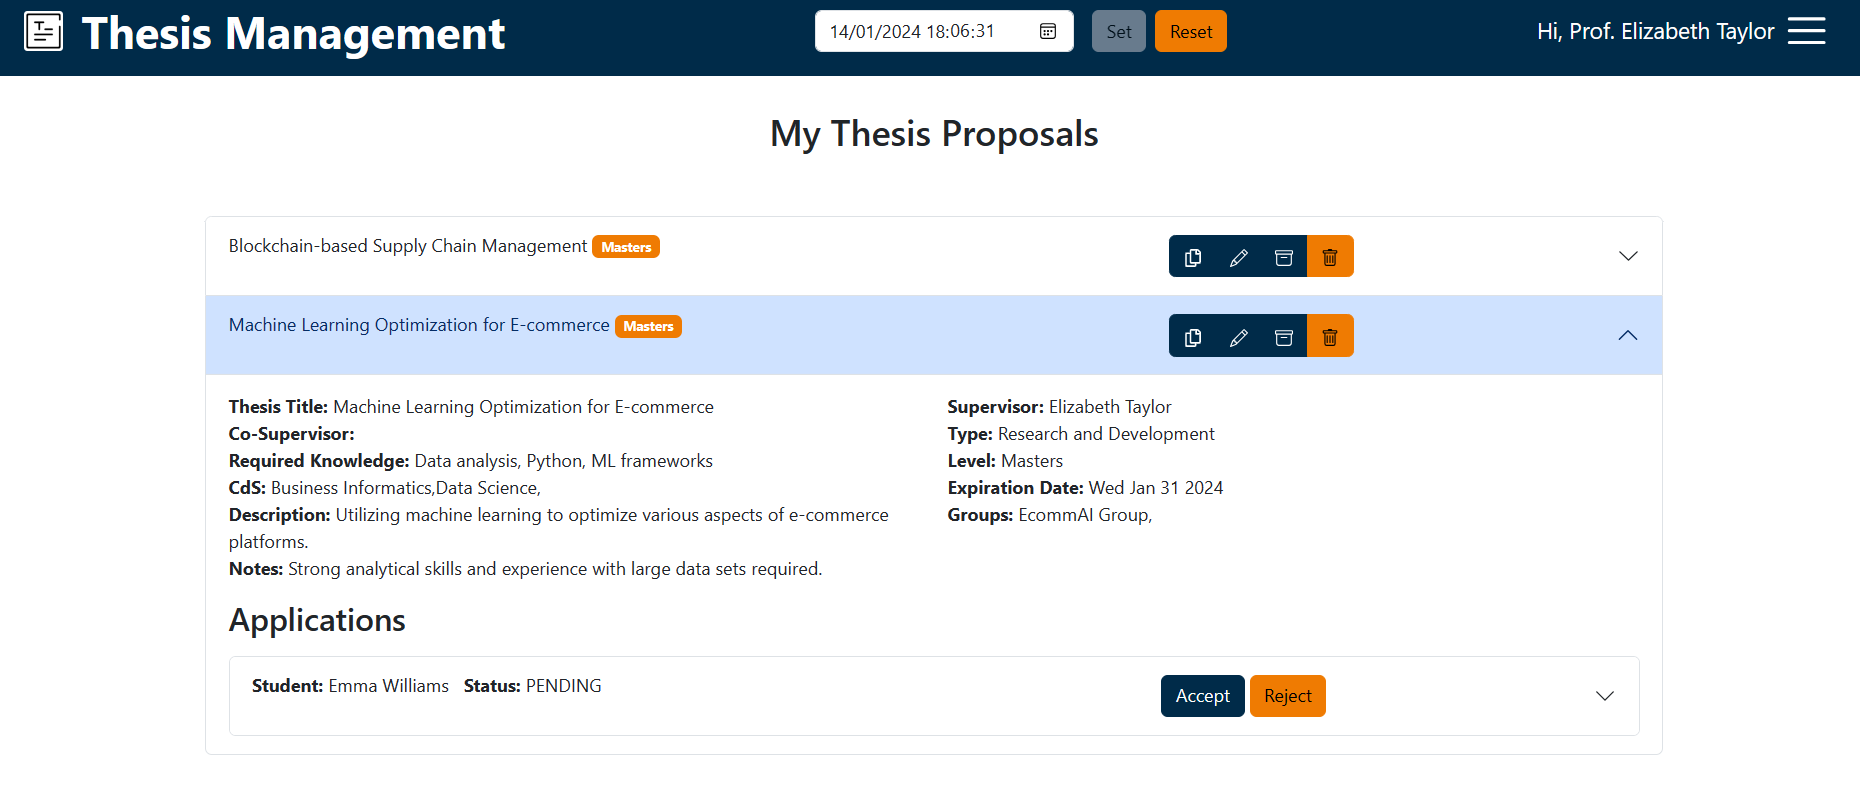
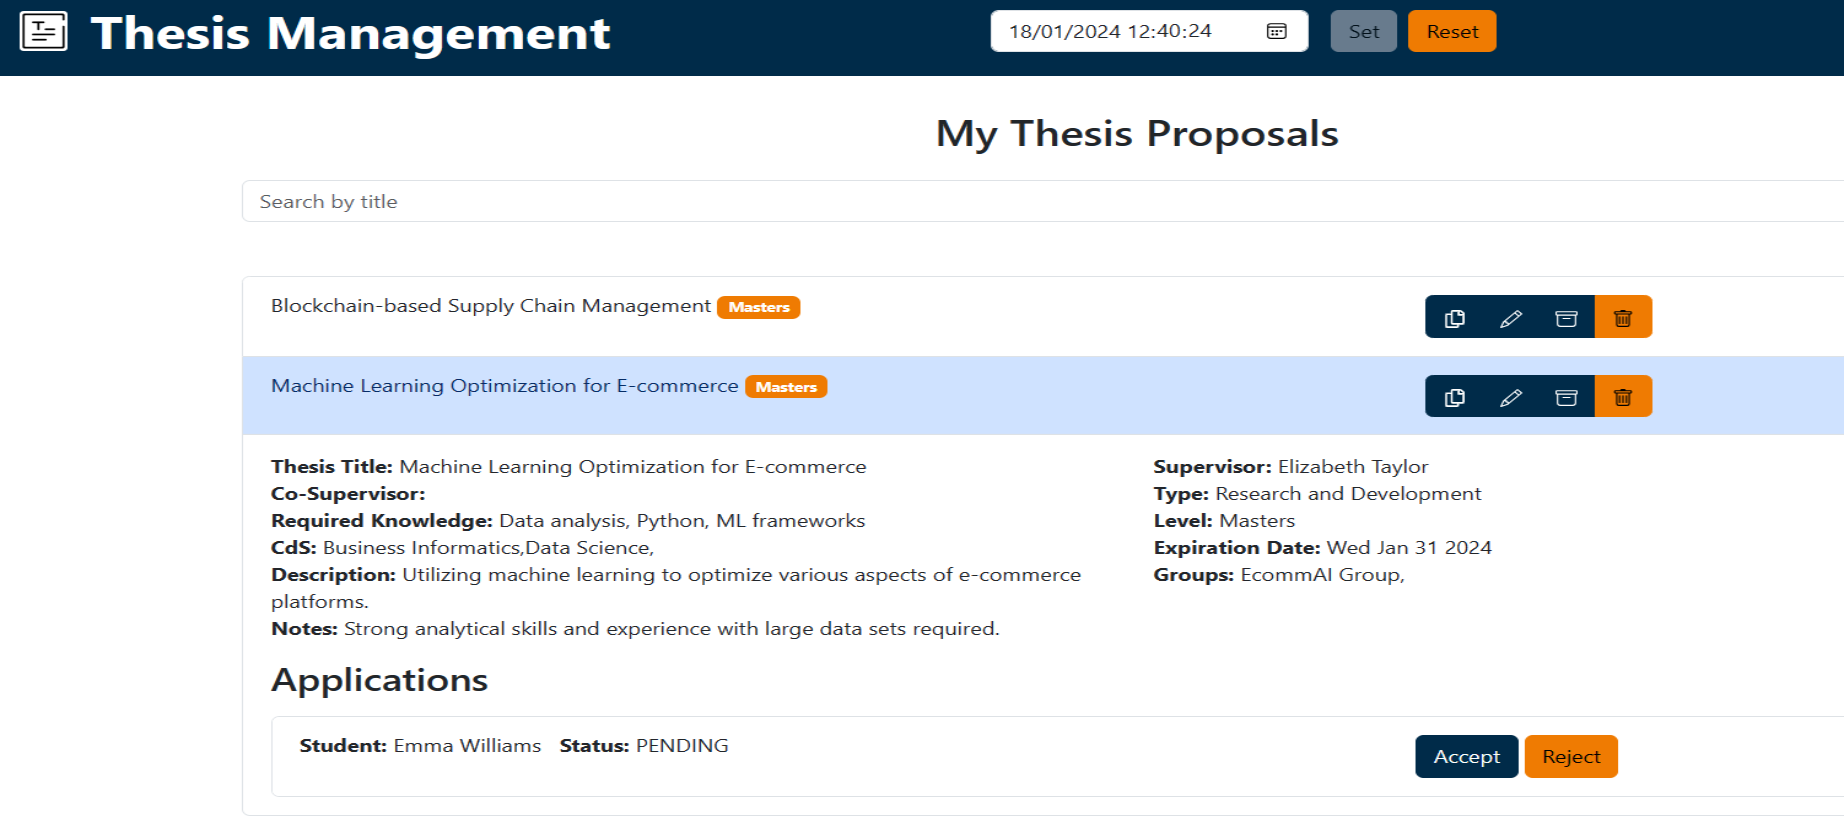
finished userGuide

diff --git a/UserGuide.md b/UserGuide.md
@@ -8,7 +8,7 @@
 1. [Introduction](#introduction)
 2. [Log In](#login)
 3. [Virtual Clock](#VC)
-4. [Are you a student?](#student)
+4. [Are You A Student?](#student)
 
    4.1 [Proposal List](#search)
    
@@ -21,7 +21,7 @@
    4.5 [My Thesis Request](#mythesisrequest)
 
    4.6  [Forum](#forumstud)
-5. [Are you a professor?](#professor)
+5. [Are You A Professor?](#professor)
 
    5.1 [Add a new proposal](#add)
 
@@ -36,7 +36,7 @@
    5.6 [Archived Requests](#archivedrequests)
 
    5.7 [Forum](#forumprof)
-6. [Are you a secretary?](#secretary)
+6. [Are You A Secretary?](#secretary)
 
    6.1 [Requested Proposals](#requestedproposals)
 
@@ -86,7 +86,7 @@ pages will change their data depending on the Virtual Clock value.
 
 <img src="guideImages/VirtualClock.png" alt="drawing" width="500"/>
 
-## 4 Are you a student? <a name="student"/>
+## 4 Are You A Student? <a name="student"/>
 
 From the main page you can choose between some options each with its own button which will redirect you to the
 appropriate page:
@@ -107,7 +107,7 @@ This page presents on the **list of available proposals** and the **filters boar
 
 Clicking the **rounded arrow** the list will be updated, maybe the proposal you are searching for has been just added. 
 
-From the filters board you can search a specific proposal typing some keywords or selecting some filters (you can select
+From the filters board you can search a specific proposal typing some keywords or applying some filters (you can select
 more than one options for each field).
 
 You can scroll down the list searching for an interesting proposal. Clicking on a proposal you will open a collapsable
@@ -116,7 +116,7 @@ expiration date and a button that will open a modal containing all the proposal 
 go to the **application page** using the **"Apply"** button.
 
 The button to show the proposal details is disabled in case you already have an 
-"<span style="color:green">ACCEPTED</span>" or a "<span style="color:yellow">PENDING</span>" application.
+<span style="color:green">ACCEPTED</span> or a <span style="color:yellow">PENDING</span> application.
 
 <img src="guideImages/propsList.png" alt="drawing" width="500"/>
 
@@ -124,7 +124,8 @@ The button to show the proposal details is disabled in case you already have an
 
 The application page shows information about you and your university career. The page offers you the possibility to
 attach a **PDF document** (your CV for example).
-You can send your application with the "Apply" button at the end of the page, then you'll get a message based on the
+
+Click the **"Apply"** button at the end of the page to send your application, then you'll get a message based on the
 application outcome.
 
 <img src="guideImages/apply.png" alt="drawing" width="500"/>
@@ -144,30 +145,48 @@ it has been archived by the professor so your application has been indirectly re
 ### 4.4 New Thesis Request <a name="newthesisrequest"/>
 
 If you want to make a **new thesis request** this is the right place. This page offer you the possibility to create a
-thesis request compiling a short form with some mandatory fields, the title and supervisor. Once you have compiled the
-form click the submit button to send the request. If you miss one of the mandatory fields you will be warned by some
+thesis request compiling a short form with some mandatory fields, the title and the supervisor. Once the form has been
+compiled click the submit button to send the request. If you miss one of the mandatory fields you will be warned by some
 alert.
+
+Please note: you can have only one thesis request at a time. If you already have a pending or accepted thesis request
+and try to create a new one you'll get an error message.
 
 <img src="guideImages/newThesisRequest.png" alt="drawing" width="500"/>
 
 ### 4.5 My Thesis Request <a name="mythesisrequest"/>
 
-This page shows your thesis request (if you have one) and gives oyu the possibility to edit it clicking the button:
-**"enable edit mode"**, by this way you can modify the request's data or delete the request. Remember to submit the
-changes clicking the button **"Modify request"**.
+This page shows your thesis request (if you have one) and gives you the possibility to edit it clicking the button
+**"enable edit mode"**, by this way you can modify the request data or delete the request (maybe in order ro create a
+new one).
+
+Remember to submit the changes clicking the button **"Modify request"**.
 
 <img src="guideImages/myThesisRequest.png" alt="drawing" width="500"/>
 
 ### 4.6 Forum <a name="forumstud"/>
 
-## 5 Are you a professor? <a name="professor"/>
+Once your thesis request has been approved by the secretary and the supervisor, the supervisor have the possibility to
+create a new topic about the thesis request.
+
+Well, from this page you can interact with the request's supervisor and co-supervisors and open a discussion sending a
+message on the **"Forum topic"** page.
+
+<img src="guideImages/forumStud.png" alt="drawing" width="500"/>
+<img src="guideImages/forumTopic.png" alt="drawing" width="500"/>
+
+## 5 Are You A Professor? <a name="professor"/>
 
 From the main page you can choose between three options each with its own button which will redirect you to the
 appropriate page:
 
-- Add a new thesis proposal
-- My thesis proposals
+- Add A New Thesis Proposal
+- My Proposals
+- Co-supervised Proposals
 - Archive
+- Pending Requests
+- Archived Requests
+- Forum
 
 In every moment you can change page or logout browsing the **menu** in the top right part of the pages.
 
@@ -175,15 +194,19 @@ In every moment you can change page or logout browsing the **menu** in the top r
 
 ### 5.1 Add A New Thesis Proposal <a name="add"/>
 
-This page contains the form to add a **new proposal**. You can add your new thesis proposal filling the form and
-submitting it. Pay attention, before you submit the form make sure that the **mandatory fields** (marked with an "*")
-are filled otherwise an error alert will arise and the submission won't be accepted. The other fields are all optional.
+This page contains the form to add a **new proposal**.
+
+You can add your new thesis proposal filling the form and submitting it.
+
+Pay attention, before you submit the form make sure that the **mandatory fields** (marked with an "*") are filled
+otherwise an error alert will arise and the submission won't be accepted. The other fields are all optional.
+
 Note that for some fields like Co-supervisors (internal and external), Research Groups, Keywords, and CdS you can add
 **more than one element**.
 
 <img src="guideImages/addForm.png" alt="drawing" width="500"/>
 
-### 5.2 My Thesis Proposals <a name="props"/>
+### 5.2 My Proposals <a name="props"/>
 
 This page displays your thesis proposals and the respective application. From this page you are able to operate on your
 personal proposals, in particular you can:
@@ -196,6 +219,8 @@ Clicking the proposals you'll see its applications with the information about th
 download the attached file. You can **accept** one of the applications, this action will consequently make other
 applications cancelled.
 
+Use the search bar above the proposals list to find immediately what you are searching for.
+
 <img src="guideImages/professorProposal.png" alt="drawing" width="500"/>
 
 ### 5.3 Co-supervised Proposals <a name ="cosupervised"/>
@@ -206,28 +231,58 @@ Here you will find all the proposals where you are assigned as a co-supervisors.
 
 ### 5.4 Archive <a name ="archive"/>
 
-All the expired, manually archived and assigned proposals goes here. Each proposal has a modify button which permits
-you to edit and then restore an archived proposal. Use the search bar to find immediately what you are searching for.
+All the expired, manually archived and assigned proposals go here.
+
+Each proposal has a modify button which permits you to edit and then restore an archived proposal.
+
+Use the search bar above the proposals list to find immediately what you are searching for.
 
 <img src="guideImages/archive.png" alt="drawing" width="500"/>
 
 ### 5.5 Pending Requests <a name ="pendingrequests"/>
 
+Here you can find the thesis requests made by student in which you take part as supervisor or co-supervisor.
+
+If the secretary has already approved one of the requests you will choose to <span style="color:green">ACCEPTED</span>
+or <span style="color:red">REJECT</span> or maybe send a message to the student telling him to modify the request.
+
+Filter the list based on your role into the proposal requests using the button group above the list.
+
+<img src="guideImages/pendingRequests.png" alt="drawing" width="500"/>
+
 ### 5.6 Archived Requests <a name ="archivedrequests"/>
+
+The page is almost equal to the one about pending requests, the difference is that here there is the list of your
+**archived** thesis request.
+
+Filter the list based on your role into the proposal requests using the button group above the list.
+
+This is a read-only page.
+
+<img src="guideImages/archivedRequests.png" alt="drawing" width="500"/>
 
 ### 5.7 Forum <a name ="forumprof"/>
 
-## 6 Are you a secretary? <a name ="secretary"/>
+If you already have accepted one of your students' thesis requests you can create a new topic about these requests.
+
+Click the **"Create new topic"** button to open a form. Compiling and submitting the form (remember to fill the
+mandatory fields) you'll create a new topic that could be discussed with the request's co-supervisor and the
+respective applicant.
+
+<img src="guideImages/forumProf.png" alt="drawing" width="500"/>
+<img src="guideImages/newTopic.png" alt="drawing" width="500"/>
+
+## 6 Are You A Secretary? <a name ="secretary"/>
 
 From the main page at th moment you can choose only one options which will redirect you to the appropriate page:
 
-- Requested proposals
+- Requested Proposals
 
 In every moment you can change page or logout browsing the **menu** in the top right part of the pages.
 
 <img src="guideImages/secretaryMain.png" alt="drawing" width="500"/>
 
-### 6.1 Requested proposals <a name ="requestedproposals"/>
+### 6.1 Requested Proposals <a name ="requestedproposals"/>
 
 You can see all the requested thesis proposals made by the students each with the information about the proposal and the
 applicant. From this page you can accept or reject a proposal request.
